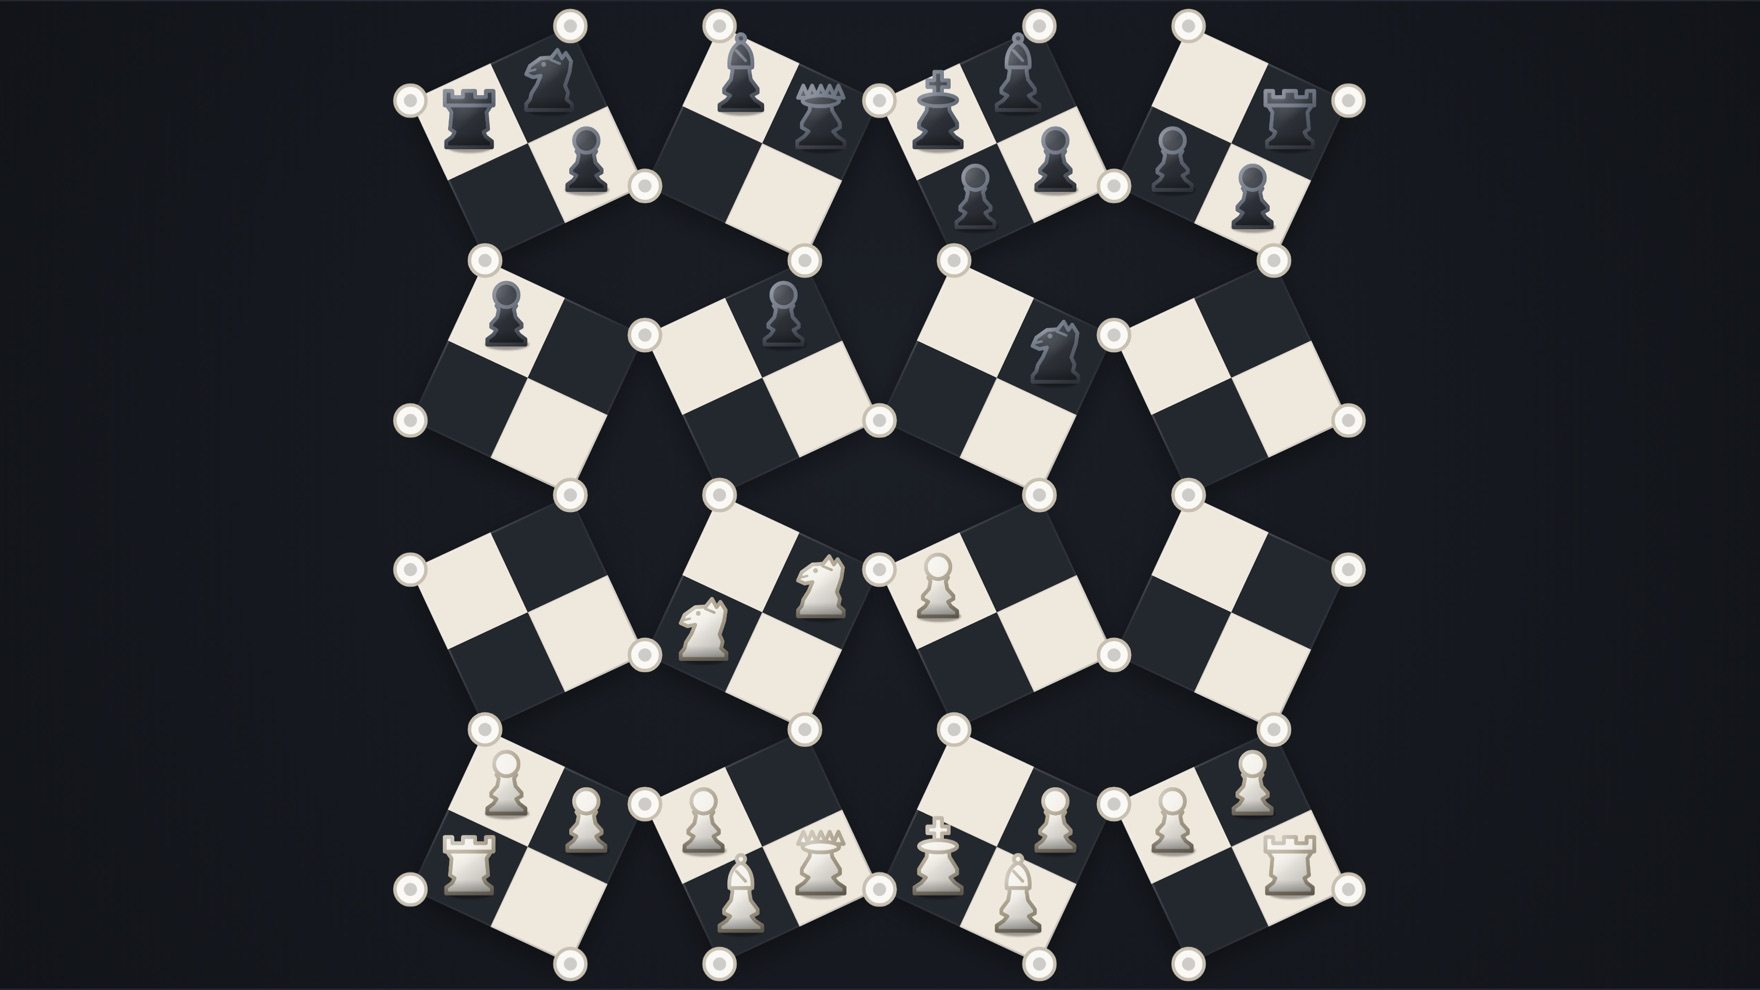
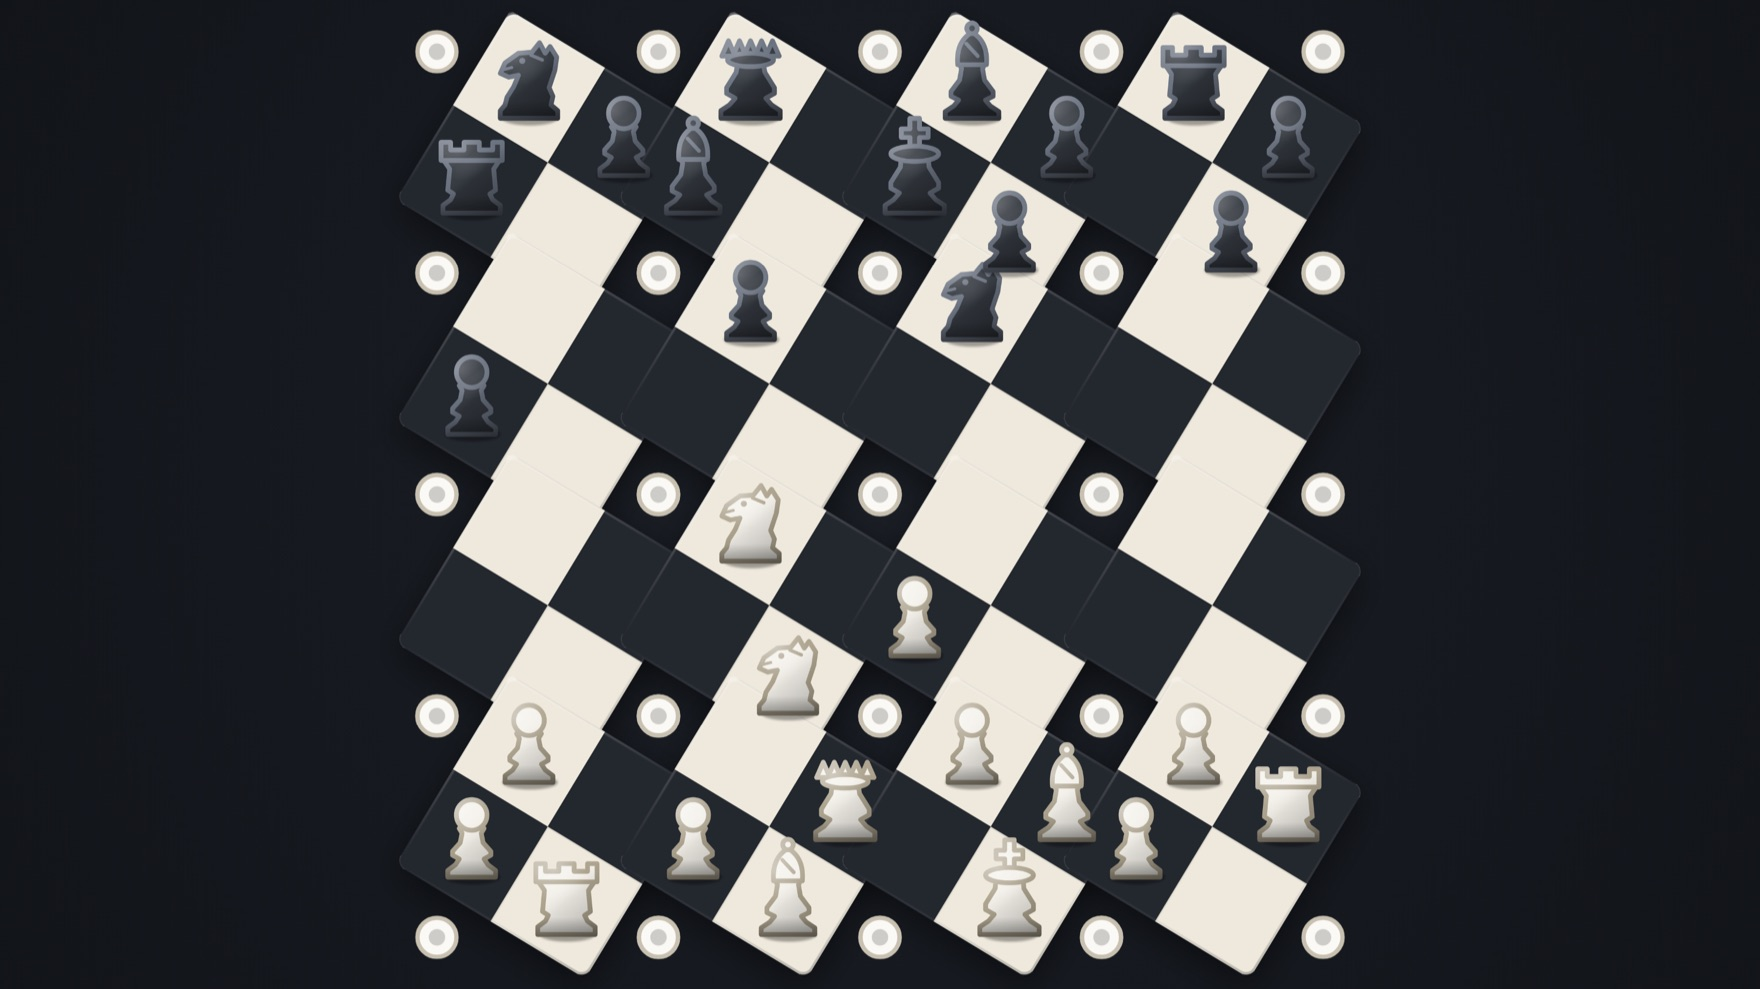
correct the auxetic chess card: it is a variant, not a spin
The previous wording described a whole-table rotation, which was a misread of
the request and has been removed from the project. The real mechanic is a
chess variant: all sixteen 2x2 blocks turn a quarter after every move and
carry the pieces, run inside the engine's own make/unmake so the search plays
the variant properly. New hero image shows the board mid-twist.

Claims trace to test/twist_test.js and test/twist_browser.js in the
auxetic-chess repo.

Claude-Session: https://claude.ai/code/session_01HbJZwwza75B9KUXKem8gbn

Changed region(s): [[0.2188, 0.0, 0.7812, 1.0], [0.75, 0.546, 0.7812, 0.6067]]

diff --git a/index.html b/index.html
@@ -527,11 +527,11 @@ p{margin:.7em 0}
 
   <section class="gallery" id="gallery">
     <div class="work rv wide" data-cat="code">
-        <div class="shot"><img src="img/auxetic-chess.jpg" alt="Chess board built from sixteen hinged tiles, part-folded so diamond gaps open between them" loading="lazy" width="1760" height="990"></div>
+        <div class="shot"><img src="img/auxetic-chess.jpg" alt="Chess board whose sixteen 2x2 blocks are caught mid-rotation, pieces swinging round with them" loading="lazy" width="1760" height="989"></div>
         <div class="work-body">
           <div class="work-head"><h3>Auxetic Chess</h3><span class="cat cat-code">Coding</span></div>
-          <p>Chess on a board that is a mechanism. Sixteen rigid tiles, hinged at their corners, bloom open to exactly twice their area and close into a solid 8&times;8 to play on. The fold is solved from the hinge constraint <em>d&nbsp;=&nbsp;a&#8730;2&#183;cos(45&deg;+&theta;)</em> rather than animated, so the tiles stay joined at every angle. After every move the whole table turns a quarter, and the click path is inverted through that rotation so the board stays playable side-on. The chess underneath is a full engine &mdash; its move generator matches all 26 published perft reference counts, including 4,865,609 nodes at depth 5.</p>
-          <div class="chips"><span class="chip">Canvas 2D</span><span class="chip">Zero dependencies</span><span class="chip">26/26 perft</span><span class="chip">Alpha-beta search</span></div>
+          <p>A chess variant where the board is a mechanism. After every move all sixteen 2&times;2 blocks turn a quarter and carry the pieces standing on them &mdash; a1&rarr;a2&rarr;b2&rarr;b1, period four, and because it is a permutation of four squares it can never capture. The rule is deterministic, so the twist runs inside the engine&rsquo;s own <em>make</em>/<em>unmake</em> and the search plays the variant properly instead of playing normal chess into a scrambling board. It stands down on any turn that would expose your own king, which is what keeps the game from deadlocking. The engine underneath matches all 26 published perft reference counts, including 4,865,609 nodes at depth 5. The board also folds: sixteen hinged tiles that bloom to exactly twice their area on <em>d&nbsp;=&nbsp;a&#8730;2&#183;cos(45&deg;+&theta;)</em>.</p>
+          <div class="chips"><span class="chip">Canvas 2D</span><span class="chip">Zero dependencies</span><span class="chip">26/26 perft</span><span class="chip">Variant inside the engine</span></div>
         </div>
       </div>
     <div class="work rv wide" data-cat="code">
